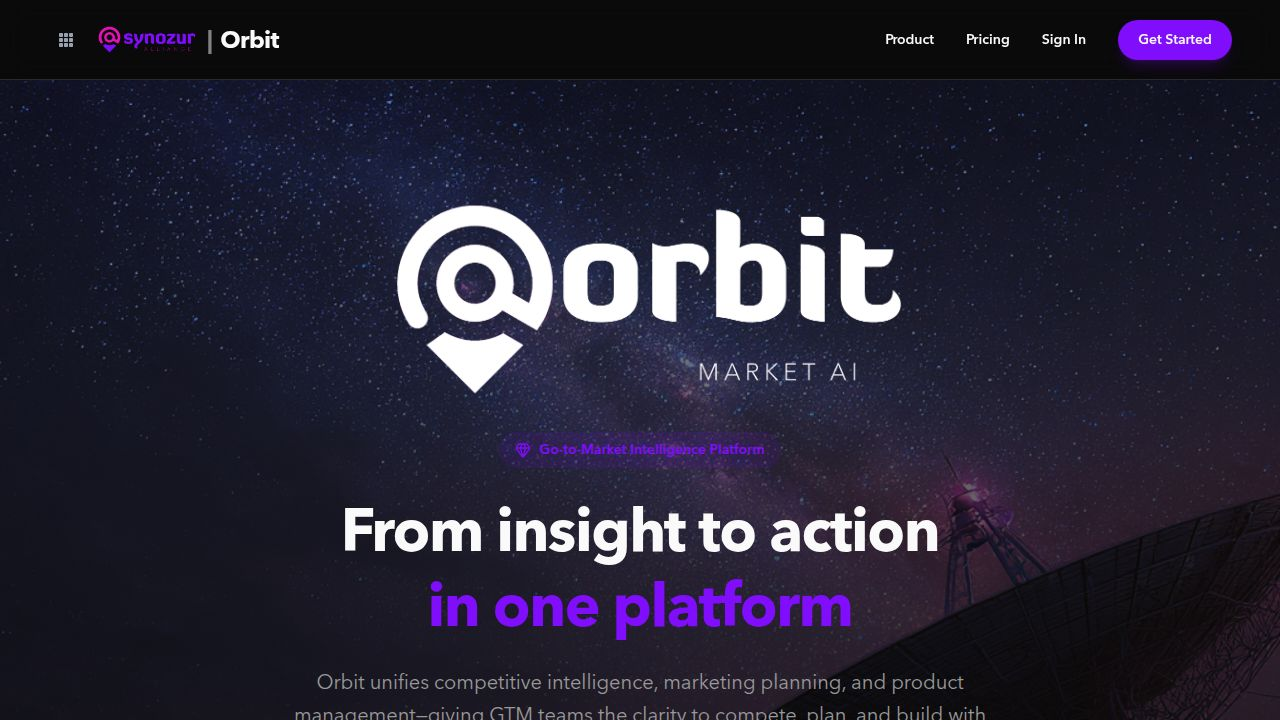
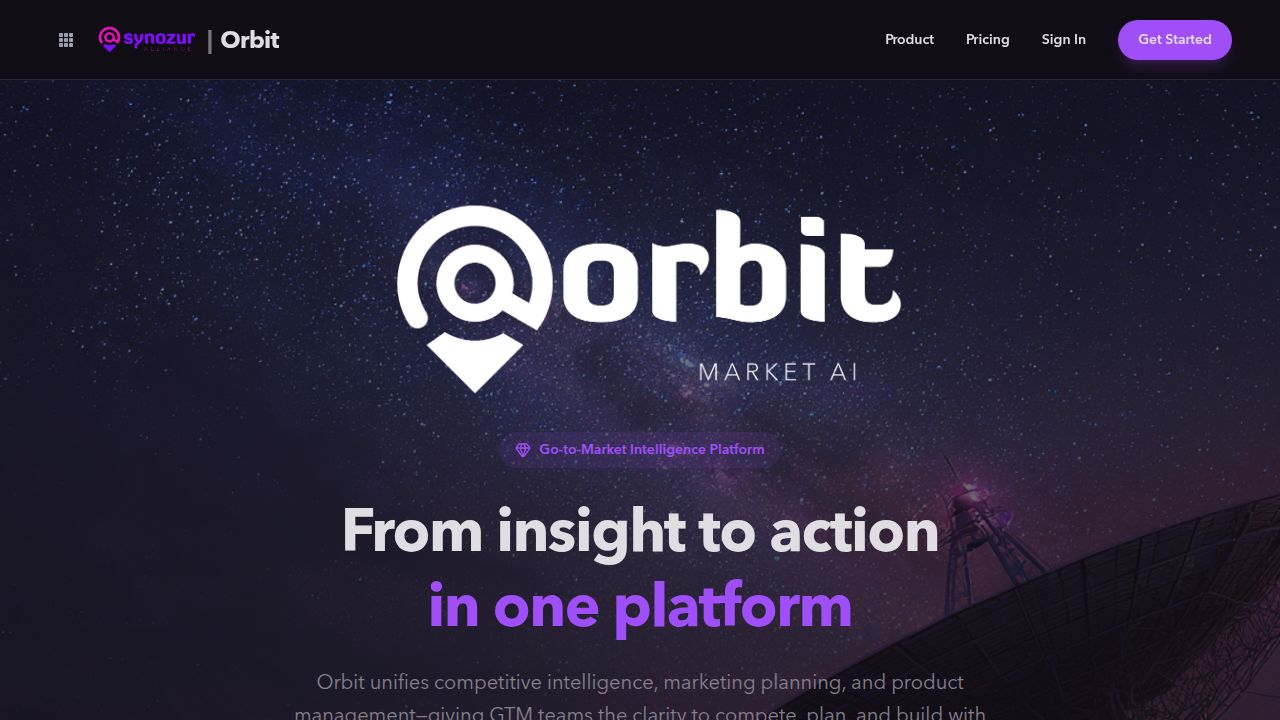
Adopt Aurora theme for a purple-tinted user interface
Update application-wide CSS variables and component styles to implement the Aurora theme, including changes to sidebar item active states and documentation.

Replit-Commit-Author: Agent
Replit-Commit-Session-Id: 13ff4b43-1eb4-48d1-bb5e-524ec2289885
Replit-Commit-Checkpoint-Type: full_checkpoint
Replit-Commit-Event-Id: 6c6431ea-fb6f-4bdb-a917-06b571435a57
Replit-Commit-Screenshot-Url: https://storage.googleapis.com/screenshot-production-us-central1/4bc92ae4-16a8-4580-8f70-f19fac0c101f/13ff4b43-1eb4-48d1-bb5e-524ec2289885/BvClW7w
Replit-Helium-Checkpoint-Created: true

diff --git a/client/src/index.css b/client/src/index.css
@@ -128,103 +128,126 @@
   --color-sidebar-border: hsl(var(--sidebar-border));
   --color-sidebar-ring: hsl(var(--sidebar-ring));
 
-  /* Spec requires Avenir Next LT Pro first, then fallback */
   --font-sans: 'Avenir Next LT Pro', 'Inter', sans-serif;
   --font-display: 'Avenir Next LT Pro', 'Inter', sans-serif;
-  
+
   --radius-sm: calc(var(--radius) - 4px);
   --radius-md: calc(var(--radius) - 2px);
   --radius-lg: var(--radius);
+  --spacing: 0.25rem;
 }
+
+/* ═══════════════════════════════════════════════════════════════════════════
+   Aurora Theme — sourced from Constellation (synozur-scdp)
+   Master theme for the Synozur suite. Purple-tinted surfaces, Synozur brand
+   primary (#810FFB) / secondary (#E60CB3), 1.3rem radius, full shadow scale.
+   ═══════════════════════════════════════════════════════════════════════════ */
 
 :root {
-  /* Default Dark Mode Theme for Orbit - Neutral grays with purple/pink accents */
-  --background: 0 0% 4%;
-  --foreground: 0 0% 98%;
-  
-  --card: 0 0% 6%;
-  --card-foreground: 0 0% 98%;
-  
-  --popover: 0 0% 5%;
-  --popover-foreground: 0 0% 98%;
-  
-  /* Primary Orbit Purple: #810FFB */
-  --primary: 269 98% 52%;
-  --primary-foreground: 0 0% 98%;
-  
-  /* Secondary Orbit Pink: #E60CB3 */
-  --secondary: 314 90% 47%;
-  --secondary-foreground: 0 0% 98%;
-  
-  --muted: 0 0% 14%;
-  --muted-foreground: 0 0% 60%;
-  
-  --accent: 0 0% 14%;
-  --accent-foreground: 0 0% 98%;
-  
-  --destructive: 0 62.8% 30.6%;
-  --destructive-foreground: 0 0% 98%;
-  
-  --border: 0 0% 16%;
-  --input: 0 0% 16%;
-  --ring: 269 98% 52%;
-  
-  --radius: 0.5rem;
-  
-  --chart-1: 269 98% 52%; /* Purple */
-  --chart-2: 314 90% 47%; /* Pink */
-  --chart-3: 199 89% 48%; /* Blue */
-  --chart-4: 43 74% 66%; /* Yellow */
-  --chart-5: 27 87% 67%; /* Orange */
-
-  --sidebar: 0 0% 7%;
-  --sidebar-foreground: 0 0% 95%;
-  --sidebar-primary: 269 98% 52%;
+  --background: 268 30% 97%;
+  --foreground: 268 25% 8%;
+  --card: 268 25% 95.5%;
+  --card-foreground: 268 25% 8%;
+  --popover: 268 30% 97%;
+  --popover-foreground: 268 25% 8%;
+  --primary: 268.98 96.72% 52.16%;
+  --primary-foreground: 0 0% 100%;
+  --secondary: 314.04 90.08% 47.45%;
+  --secondary-foreground: 0 0% 100%;
+  --muted: 268 15% 89%;
+  --muted-foreground: 268 8% 38%;
+  --accent: 268 50% 92%;
+  --accent-foreground: 268 80% 25%;
+  --destructive: 356.3 90.56% 54.31%;
+  --destructive-foreground: 0 0% 100%;
+  --border: 268 18% 86%;
+  --input: 268 18% 94%;
+  --ring: 268.98 96.72% 52.16%;
+  --chart-1: 268.98 96.72% 52.16%;
+  --chart-2: 314.04 90.08% 47.45%;
+  --chart-3: 269.16 80.45% 26.08%;
+  --chart-4: 147.14 78.5% 41.96%;
+  --chart-5: 341.49 75.2% 50.98%;
+  --sidebar: 268 25% 95%;
+  --sidebar-foreground: 268 25% 8%;
+  --sidebar-primary: 268.98 96.72% 52.16%;
   --sidebar-primary-foreground: 0 0% 100%;
-  --sidebar-accent: 0 0% 12%;
-  --sidebar-accent-foreground: 0 0% 95%;
-  --sidebar-border: 0 0% 15%;
-  --sidebar-ring: 269 98% 52%;
+  --sidebar-accent: 268 50% 91%;
+  --sidebar-accent-foreground: 268.98 96.72% 45%;
+  --sidebar-border: 268 18% 86%;
+  --sidebar-ring: 268.98 96.72% 52.16%;
+  --radius: 1.3rem;
+  --shadow-2xs: 0px 1px 3px 0px hsl(268 50% 30% / 0.06);
+  --shadow-xs: 0px 2px 4px 0px hsl(268 50% 30% / 0.08);
+  --shadow-sm: 0px 2px 6px 0px hsl(268 50% 30% / 0.08), 0px 1px 2px -1px hsl(268 50% 30% / 0.05);
+  --shadow: 0px 4px 8px 0px hsl(268 50% 30% / 0.10), 0px 1px 2px -1px hsl(268 50% 30% / 0.05);
+  --shadow-md: 0px 4px 12px 0px hsl(268 50% 30% / 0.12), 0px 2px 4px -1px hsl(268 50% 30% / 0.06);
+  --shadow-lg: 0px 8px 20px 0px hsl(268 50% 30% / 0.14), 0px 4px 6px -1px hsl(268 50% 30% / 0.06);
+  --shadow-xl: 0px 12px 28px 0px hsl(268 50% 30% / 0.15), 0px 8px 10px -1px hsl(268 50% 30% / 0.08);
+  --shadow-2xl: 0px 20px 40px 0px hsl(268 50% 30% / 0.18);
 }
 
-/* We are forcing dark mode as default, but if we need a light mode override later: */
-.light {
-  --background: 0 0% 100%;
-  --foreground: 240 10% 3.9%;
-  
-  --card: 0 0% 100%;
-  --card-foreground: 240 10% 3.9%;
-  
-  --popover: 0 0% 100%;
-  --popover-foreground: 240 10% 3.9%;
-  
-  --primary: 269 98% 52%;
-  --primary-foreground: 0 0% 98%;
-  
-  --secondary: 314 90% 47%;
-  --secondary-foreground: 0 0% 98%;
-  
-  --muted: 240 4.8% 95.9%;
-  --muted-foreground: 240 3.8% 46.1%;
-  
-  --accent: 240 4.8% 95.9%;
-  --accent-foreground: 240 5.9% 10%;
-  
-  --destructive: 0 84.2% 60.2%;
-  --destructive-foreground: 0 0% 98%;
-  
-  --border: 240 5.9% 90%;
-  --input: 240 5.9% 90%;
-  --ring: 269 98% 52%;
-  
-  --sidebar: 0 0% 98%;
-  --sidebar-foreground: 240 5.3% 26.1%;
-  --sidebar-primary: 240 5.9% 10%;
-  --sidebar-primary-foreground: 0 0% 98%;
-  --sidebar-accent: 240 4.8% 95.9%;
-  --sidebar-accent-foreground: 240 5.9% 10%;
-  --sidebar-border: 220 13% 91%;
-  --sidebar-ring: 269 98% 52%;
+.dark {
+  --background: 268 20% 7%;
+  --foreground: 268 8% 88%;
+  --card: 268 20% 10%;
+  --card-foreground: 268 8% 85%;
+  --popover: 268 20% 7%;
+  --popover-foreground: 268 8% 88%;
+  --primary: 268.98 92% 64%;
+  --primary-foreground: 0 0% 100%;
+  --secondary: 314.04 85% 61%;
+  --secondary-foreground: 0 0% 100%;
+  --muted: 268 15% 15%;
+  --muted-foreground: 268 6% 53%;
+  --accent: 268 35% 16%;
+  --accent-foreground: 268.98 92% 70%;
+  --destructive: 356.3 85% 60%;
+  --destructive-foreground: 0 0% 100%;
+  --border: 268 18% 17%;
+  --input: 268 18% 13%;
+  --ring: 268.98 92% 64%;
+  --chart-1: 268.98 92% 64%;
+  --chart-2: 314.04 85% 61%;
+  --chart-3: 269.16 75% 72%;
+  --chart-4: 147.14 68% 54%;
+  --chart-5: 341.49 72% 63%;
+  --sidebar: 268 25% 6%;
+  --sidebar-foreground: 268 8% 80%;
+  --sidebar-primary: 268.98 92% 64%;
+  --sidebar-primary-foreground: 0 0% 100%;
+  --sidebar-accent: 268 35% 14%;
+  --sidebar-accent-foreground: 268.98 92% 72%;
+  --sidebar-border: 268 18% 14%;
+  --sidebar-ring: 268.98 92% 64%;
+  --radius: 1.3rem;
+  --shadow: 0px 4px 8px 0px hsl(268 30% 2% / 0.45), 0px 1px 2px -1px hsl(268 30% 2% / 0.22);
+  --shadow-sm: 0px 2px 4px 0px hsl(268 30% 2% / 0.32), 0px 1px 2px -1px hsl(268 30% 2% / 0.15);
+  --shadow-md: 0px 4px 12px 0px hsl(268 30% 2% / 0.50), 0px 2px 4px -1px hsl(268 30% 2% / 0.24);
+  --shadow-lg: 0px 8px 20px 0px hsl(268 30% 2% / 0.60), 0px 4px 6px -1px hsl(268 30% 2% / 0.28);
+  --shadow-xl: 0px 12px 30px 0px hsl(268 30% 2% / 0.65), 0px 8px 10px -1px hsl(268 30% 2% / 0.30);
+  --shadow-2xl: 0px 20px 40px 0px hsl(268 30% 2% / 0.70);
+  --shadow-xs: 0px 1px 2px 0px hsl(268 30% 2% / 0.20);
+  --shadow-2xs: 0px 1px 2px 0px hsl(268 30% 2% / 0.14);
+}
+
+.sidebar-item-active-gradient {
+  position: relative;
+}
+.sidebar-item-active-gradient::before {
+  content: '';
+  position: absolute;
+  left: 0;
+  top: 0;
+  bottom: 0;
+  width: 3px;
+  background: linear-gradient(180deg, hsl(var(--primary)), hsl(var(--secondary)));
+  border-radius: 0 2px 2px 0;
+}
+
+.page-header-gradient-bar {
+  border-top: 2px solid transparent;
+  border-image: linear-gradient(90deg, hsl(var(--primary)), hsl(var(--secondary))) 1;
 }
 
 @layer base {

diff --git a/client/src/components/layout/AppLayout.tsx b/client/src/components/layout/AppLayout.tsx
@@ -530,7 +530,7 @@ export default function AppLayout({ children }: { children: React.ReactNode }) {
                             className={cn(
                               "flex items-center gap-3 px-3 py-2 rounded-md text-sm font-medium transition-all duration-200 relative pl-4",
                               isActive 
-                                ? "bg-sidebar-accent text-sidebar-accent-foreground shadow-sm" 
+                                ? "bg-sidebar-accent text-sidebar-accent-foreground shadow-sm sidebar-item-active-gradient" 
                                 : "text-sidebar-foreground/70 hover:bg-sidebar-accent/50 hover:text-sidebar-foreground",
                               isLocked && !isActive && "opacity-50"
                             )}

diff --git a/replit.md b/replit.md
@@ -21,6 +21,8 @@ Preferred communication style: Simple, everyday language.
 - **State Management**: TanStack React Query (server state), React Context (authentication)
 - **UI Components**: shadcn/ui (Radix UI primitives)
 - **Styling**: Tailwind CSS v4 with CSS variables
+- **Theme**: Aurora theme from Constellation (`synozur-scdp` repo, `client/src/themes/aurora.css`). Purple-tinted surfaces (hue 268), Synozur brand primary (#810FFB) / secondary (#E60CB3), 1.3rem radius, full shadow scale. Includes `.sidebar-item-active-gradient` (3px gradient left border on active nav) and `.page-header-gradient-bar` (gradient top border on page headers) utility classes.
+- **Theme Source**: Constellation repo (`github.com/chris-mcnulty/synozur-scdp`) is the master source for shared UX themes across the Synozur suite. Other available themes: baseline, navigators-chart, night-sky.
 - **Font**: Avenir Next LT Pro
 - **Structure**: Page-based with distinct public and authenticated layouts.
 
